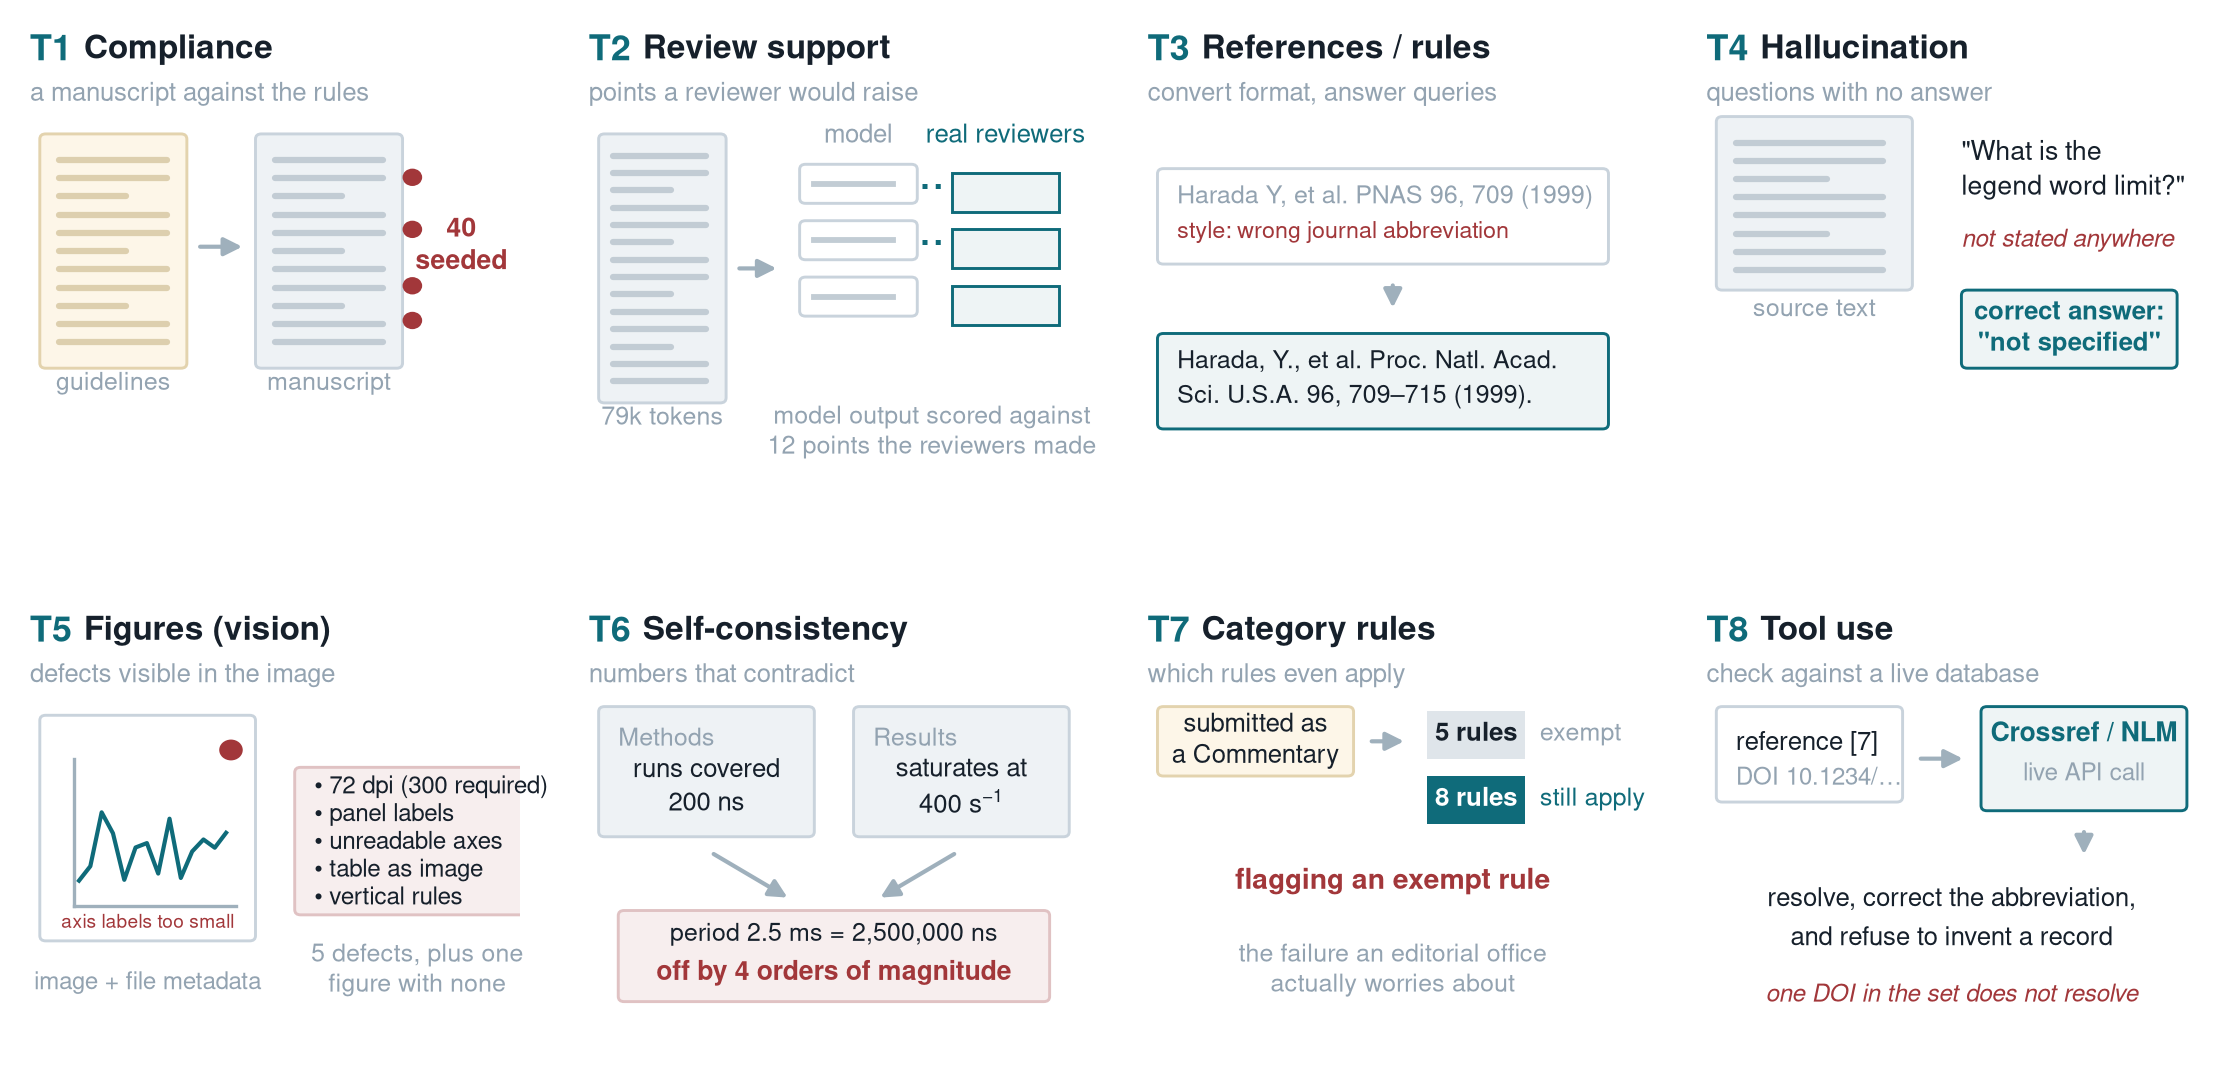
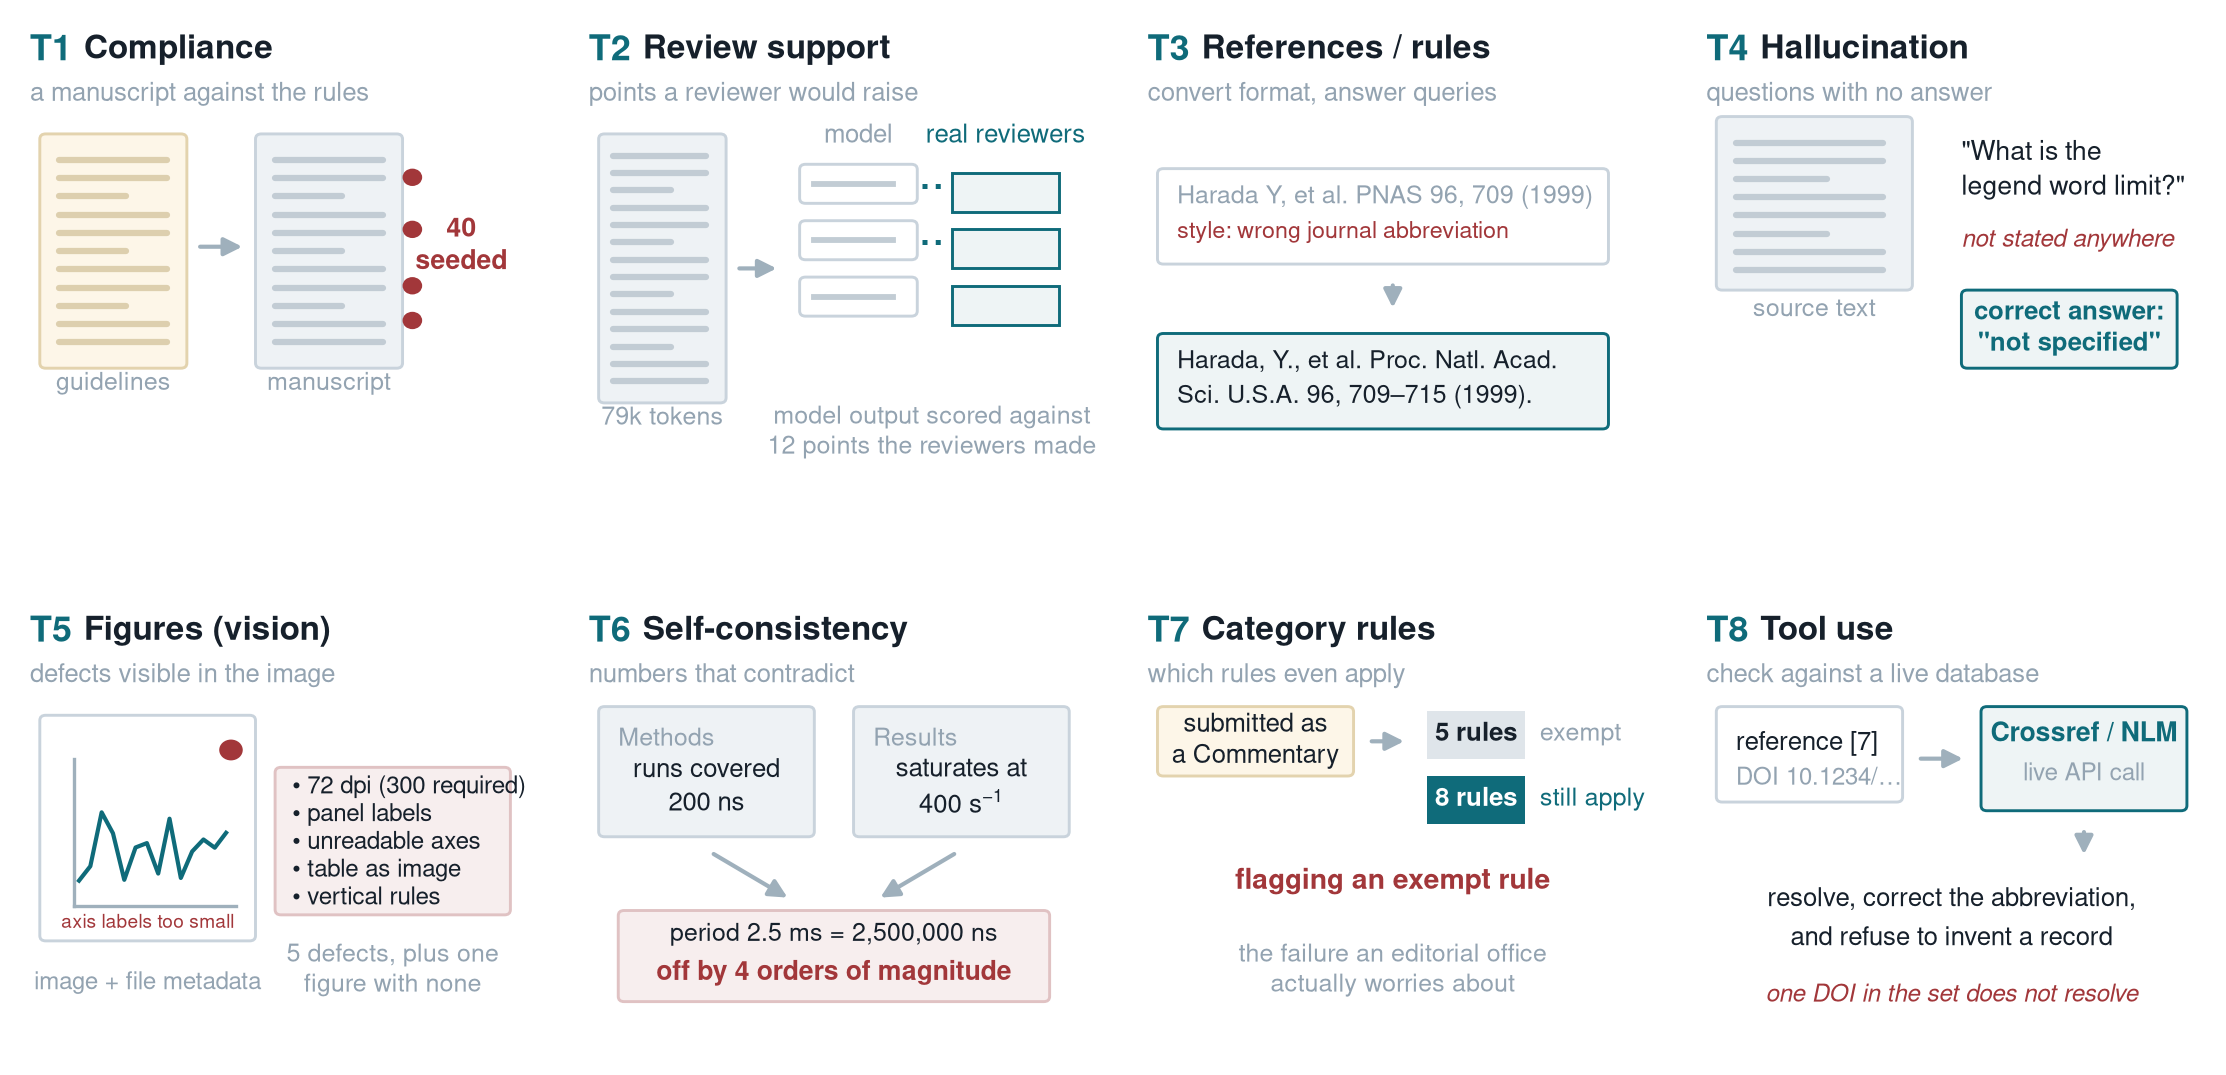
Sync: Figure 2 card no longer clipped
Claude-Session: https://claude.ai/code/session_01W6bqAL5ZasxnjLr22fNCVA

Changed region(s): [[0.124, 0.706, 0.248, 0.9209]]

diff --git a/harness/make_paper_figures.py b/harness/make_paper_figures.py
@@ -459,15 +459,16 @@ def fig_tasks():
     mark(a, 41, 68, MISS, 2.4)
     a.text(24, 17, 'image + file metadata', ha='center', va='top',
            fontsize=5.8, color=MUTE)
-    # widened from 42 to 50 so the longest item clears the right-hand border
-    a.add_patch(FancyBboxPatch((54, 30), 50, 34, boxstyle='round,pad=0,rounding_size=1.2',
+    # The panel is 0-100 wide. Widening this card to fit the longest item ran its
+    # right edge to 104, where the axes clipped it; it starts further left instead.
+    a.add_patch(FancyBboxPatch((50, 30), 48, 34, boxstyle='round,pad=0,rounding_size=1.2',
                                fc='#f7eeee', ec='#e0c2c3', lw=.7, zorder=2))
     # 'the five seeded defects', not requirements: a reviewer read '72 dpi' as a
     # specification. The journal requires 300 dpi; 72 dpi is the fault.
     for k, t in enumerate(['72 dpi (300 required)', 'panel labels', 'unreadable axes',
                            'table as image', 'vertical rules']):
-        a.text(58, 58 - k * 6.4, '• ' + t, fontsize=5.8, color=INK, zorder=3)
-    a.text(79, 24, '5 defects, plus one\nfigure with none', ha='center', va='top',
+        a.text(53.5, 58 - k * 6.4, '• ' + t, fontsize=5.8, color=INK, zorder=3)
+    a.text(74, 24, '5 defects, plus one\nfigure with none', ha='center', va='top',
            fontsize=6.0, color=MUTE)
 
     # ---- T6 self-consistency: two numbers that cannot both hold
